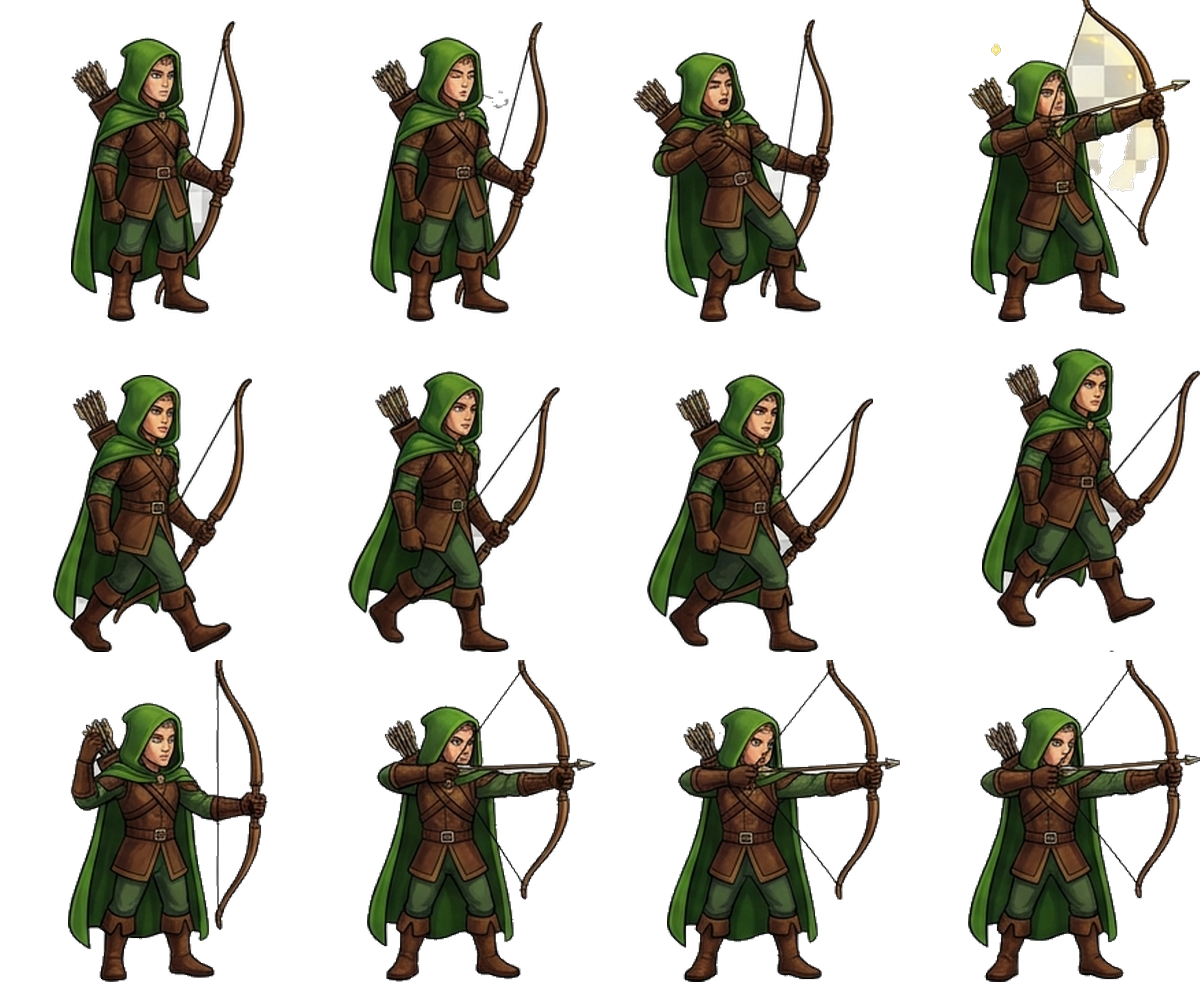
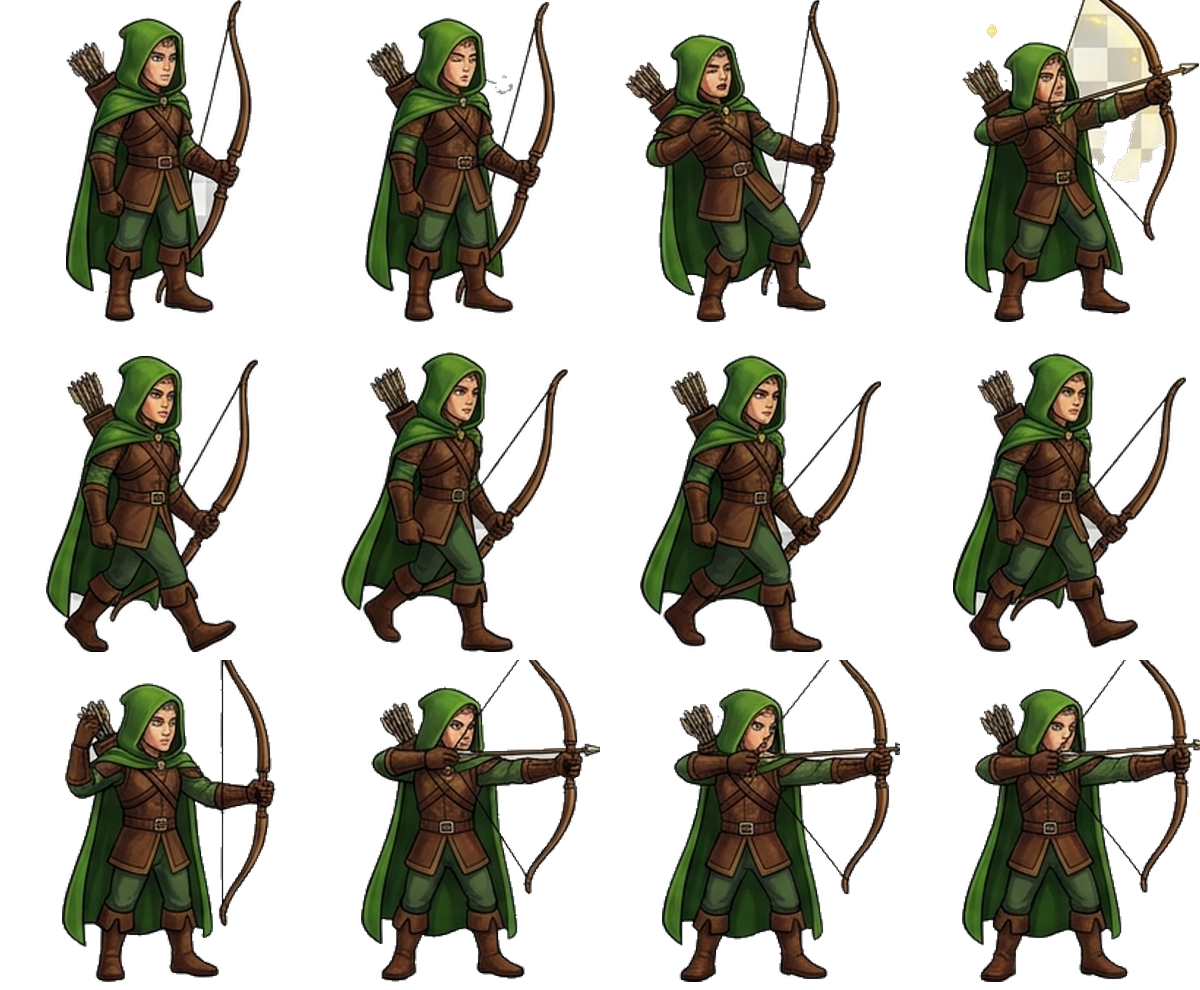
슬라임 왕·대왕 슬라임 동작 시트 연결, 시트 자르기를 그림 덩어리 단위로
- 몬스터 동작 시트: 이동·공격·내려찍기(공격 줄을 천천히)·스킬·맞음 자세, 첫 칸 몸 너비로 크기 맞춤
- prepare_images: 칸 경계를 넘은 자세(높이 뛴 머리·왕관)도 그 자세에 붙임, 몬스터는 모든 자세가 칸 안에 들어가게

Claude-Session: https://claude.ai/code/session_01LK6DUGcPkACYe2DiQDP4gS

diff --git a/index.html b/index.html
@@ -895,7 +895,15 @@ function loadImages() {
 // 그림은 오른쪽을 바라보는 모습 (왼쪽으로 갈 때는 뒤집어 그림). 병사는 unit_<종류>_<단계>, 없는 단계는 낮은 단계 그림을 씀
 const SPRITE_NAMES = [];
 // 동작 시트 (12자세: 1줄 서 있기·숨쉬기·맞음·스킬 / 2줄 걷기 4장 / 3줄 공격 4장). 있으면 한 장 그림 대신 사용
-const ANIM_NAMES = ['hero_knight', 'hero_archer', 'hero_mage'];
+const ANIM_NAMES = ['hero_knight', 'hero_archer', 'hero_mage', 'boss_slime_king', 'boss_giant_slime_king'];   // images/web/ 에 있는 시트만 (새 그림이 오면 추가)
+// 몬스터 종류 → 동작 시트 이름 (시트가 아직 없으면 지금처럼 도형으로 그림). animW = 서 있기 자세의 몸 너비 (몸 반지름의 몇 배)
+const ENEMY_ANIM = {
+  slime: 'enemy_slime', slimeling: 'enemy_slimeling', ironSlime: 'enemy_iron_slime', acidSlime: 'enemy_acid_slime', fireSlime: 'enemy_fire_slime',
+  bombSlime: 'enemy_bomb_slime', poisonSlime: 'enemy_poison_slime', giantSlime: 'enemy_giant_slime', iceSlime: 'enemy_ice_slime', healSlime: 'enemy_heal_slime',
+  slimeKing: 'boss_slime_king', ironSlimeKing: 'boss_iron_slime_king', poisonSlimeQueen: 'boss_poison_slime_queen',
+  spiderQueen: 'boss_spider_queen', wolfKing: 'boss_wolf_king', giantSlimeKing: 'boss_giant_slime_king',
+};
+const ENEMY_ANIM_W = { slimeKing: 3.2, giantSlimeKing: 3.0 };   // 기본 2.6
 // 시트의 몇 번째 칸을 쓸지 (0~11). 마법사 스킬 칸은 효과가 칸을 가득 채워서 서 있는 칸을 대신 씀
 const ANIM_FRAMES = { idle: [0, 1], hurt: 2, cast: 3, walk: [4, 5, 6, 7], attack: [8, 9, 10, 11] };
 const ANIM_OVERRIDE = { hero_mage: { cast: 0 }, hero_archer: { cast: 10 } };   // 궁사 스킬 칸은 빛 효과 주변이 덜 깔끔해서 조준 칸을 씀
@@ -922,18 +930,20 @@ const Sprites = {
     const flash = mk(im.width, im.height), fg = flash.getContext('2d');
     fg.drawImage(im, 0, 0); fg.globalCompositeOperation = 'source-in'; fg.fillStyle = '#ffffff'; fg.fillRect(0, 0, flash.width, flash.height);
     const cw = im.width / ANIM_COLS, ch = im.height / ANIM_ROWS;
-    let head = { x: cw / 2, y: ch * 0.12 };                                                    // 초상화용 머리 위치 (첫 칸)
+    let head = { x: cw / 2, y: ch * 0.12 }, fig = { w: cw * 0.7, h: ch * 0.6 };              // 초상화용 머리 위치 · 서 있기 자세 크기 (첫 칸)
     try {
       const c = mk(Math.round(cw), Math.round(ch)), g = c.getContext('2d'); g.drawImage(im, 0, 0);
-      const d = g.getImageData(0, 0, c.width, c.height).data; let top = -1;
+      const d = g.getImageData(0, 0, c.width, c.height).data; let top = -1, x0 = c.width, x1 = -1;
       for (let y = 0; y < c.height && top < 0; y++) for (let x = 0; x < c.width; x++) if (d[(y * c.width + x) * 4 + 3] > 128) { top = y; break; }
       if (top >= 0) {
         let sx = 0, cnt = 0; const band = Math.round((c.height - top) * 0.2);
         for (let y = top; y < top + band; y++) for (let x = 0; x < c.width; x += 2) if (d[(y * c.width + x) * 4 + 3] > 128) { sx += x; cnt++; }
         head = { x: cnt ? sx / cnt : cw / 2, y: top };
+        for (let y = top; y < c.height; y += 2) for (let x = 0; x < c.width; x++) if (d[(y * c.width + x) * 4 + 3] > 128) { if (x < x0) x0 = x; if (x > x1) x1 = x; }
+        fig = { w: Math.max(10, x1 - x0), h: c.height * (1 - ANIM_FOOT) - top };
       }
     } catch (_) {}
-    this.anims[n] = { img: im, half, flash, cw, ch, head, frames: { ...ANIM_FRAMES, ...(ANIM_OVERRIDE[n] || {}) } };
+    this.anims[n] = { img: im, half, flash, cw, ch, head, fig, frames: { ...ANIM_FRAMES, ...(ANIM_OVERRIDE[n] || {}) } };
   },
   anim(n) { return this.anims[n] || null; },
   prepare(n, im) {
@@ -1004,6 +1014,27 @@ const Art = {
     if (u.flash > 0) { ctx.globalAlpha = Math.min(0.6, u.flash * 6); ctx.drawImage(an.flash, fx, fy, an.cw, an.ch, -W / 2, -H, W, H); }
     ctx.restore();
     return y + H * ANIM_FOOT - H + H * 0.06;                                                       // 머리 위치 (체력바용)
+  },
+  // 몬스터 동작 시트: 스킬(내려찍기는 공격 줄을 천천히) · 공격 · 맞음 · 이동 · 쉬기. 크기는 첫 칸 몸 너비를 몸 반지름에 맞춤
+  enemyAnim(ctx, an, e) {
+    const c = Math.cos(e.face); if (c < -0.25) e.flipX = true; else if (c > 0.25) e.flipX = false;
+    const F = an.frames, r = e.radius;
+    if (e.lunge > 0.1 && !(e._atkT > e.anim - 0.5)) e._atkT = e.anim;                            // 새 공격 시작
+    const at = e._atkT != null ? e.anim - e._atkT : 9; let f;
+    if (e.casting > 0 && e.castSk === 'slam') { const p = 1 - e.casting / (e.castLen || 1); f = F.attack[p < 0.45 ? 0 : p < 0.85 ? 1 : 2]; }
+    else if (e.casting > 0) f = F.cast;
+    else if (at < 0.5) f = F.attack[Math.min(F.attack.length - 1, Math.floor(at / 0.5 * F.attack.length))];
+    else if (e.flash > 0.04) f = F.hurt;
+    else if (e.bossDash || e.anim - (e.movedT ?? -9) < 0.15) f = F.walk[Math.floor(e.anim * 6) % F.walk.length];
+    else f = F.idle[Math.floor(e.anim * 1.5) % F.idle.length];
+    const H = r * (ENEMY_ANIM_W[e.type] || 2.6) / an.fig.w * an.ch, W = H * an.cw / an.ch, foot = e.y + r * 0.35;
+    const fx = (f % ANIM_COLS) * an.cw, fy = Math.floor(f / ANIM_COLS) * an.ch;
+    const small = H * pixelRatio * Camera.zoom < 170, src = small ? an.half : an.img, k = small ? 0.5 : 1;
+    ctx.save(); ctx.translate(e.x, foot + H * ANIM_FOOT); if (e.flipX) ctx.scale(-1, 1);
+    ctx.drawImage(src, fx * k, fy * k, an.cw * k, an.ch * k, -W / 2, -H, W, H);
+    if (e.flash > 0) { ctx.globalAlpha = Math.min(0.6, e.flash * 6); ctx.drawImage(an.flash, fx, fy, an.cw, an.ch, -W / 2, -H, W, H); }
+    ctx.restore();
+    e._top = foot - an.fig.h / an.ch * H;                                                         // 머리 위치 (기절 별·체력바)
   },
   // 걷기(통통 튀기·좌우 흔들림) / 공격(앞으로 숙이기) / 가만히(숨쉬기) / 기절(흔들흔들) / 방향(좌우 뒤집기)
   spriteMotion(u, rt, atkDur = 0.25) {
@@ -1911,7 +1942,9 @@ const Art = {
     if (e.frenzyT > 0) { ctx.strokeStyle = `rgba(255,70,40,${0.55 + Math.sin(e.anim * 12) * 0.3})`; ctx.lineWidth = 2.5; ellipse(ctx, e.x, e.y + 3, e.radius + 7, (e.radius + 7) * 0.55); ctx.stroke(); }   // 광란
     const T = e.type, esc = e.elite ? CONFIG.bossPower.escort.scale : 1;
     if (esc !== 1) { ctx.save(); ctx.translate(e.x, e.y); ctx.scale(esc, esc); ctx.translate(-e.x, -e.y); }   // 정예: 조금 크게
-    if (T === 'spider' || T === 'spiderQueen') this.spider(ctx, e);
+    const ean = ENEMY_ANIM[T] && Sprites.anim(ENEMY_ANIM[T]);
+    if (ean) { ctx.fillStyle = 'rgba(0,0,0,0.25)'; ellipse(ctx, e.x, e.y + e.radius * 0.35, e.radius * 1.35, e.radius * 0.5); ctx.fill(); this.enemyAnim(ctx, ean, e); }   // 동작 시트
+    else if (T === 'spider' || T === 'spiderQueen') this.spider(ctx, e);
     else if (T === 'bat' || T === 'harpy') this.bat(ctx, e);
     else if (T === 'dragon') this.dragon(ctx, e);
     else if (T === 'wolf' || T === 'wolfKing') this.wolf(ctx, e);
@@ -1920,7 +1953,7 @@ const Art = {
     else if (T === 'golem' || T === 'stoneGiant') this.golem(ctx, e);
     else this.humanoid(ctx, e);
     if (esc !== 1) ctx.restore();
-    const top = e.y - (e.air ? AIR_HEIGHT : 0) - e.radius * esc - 14;
+    const top = ean ? e.y + (e._top - e.y) * esc - 8 : e.y - (e.air ? AIR_HEIGHT : 0) - e.radius * esc - 14;
     if (e.stun > 0) this.stunStars(ctx, e.x, top + 2, e.anim);
     else if (e.taunt > 0) { ctx.fillStyle = '#ff4a3a'; circle(ctx, e.x, top - 2, 5.5); ctx.fill(); txt(ctx, '!', e.x, top - 1.5, 9, '#fff', 'center', { weight: 900 }); }
   },
@@ -2192,7 +2225,7 @@ const Art = {
 
   enemyBar(ctx, e) {
     if (e.hp >= e.maxHp || e.boss) return;          // 보스는 화면 위 큰 체력바
-    const w = e.radius * 2.4, y = e.y - (e.air ? AIR_HEIGHT : 0) - e.radius - 10;
+    const w = e.radius * 2.4, y = e._top != null && ENEMY_ANIM[e.type] && Sprites.anim(ENEMY_ANIM[e.type]) ? e._top - 8 : e.y - (e.air ? AIR_HEIGHT : 0) - e.radius - 10;
     bar(ctx, e.x - w / 2, y, w, 5, e.hp / e.maxHp, '#e04a3a');
   },
 
@@ -4293,6 +4326,8 @@ class Enemy {
   }
   update(dt) {
     this.anim += dt;
+    if (this._px !== undefined && Math.abs(this.x - this._px) + Math.abs(this.y - this._py) > 0.02) this.movedT = this.anim;   // 지난 틱에 움직였는지 (동작 시트: 이동 자세)
+    this._px = this.x; this._py = this.y;
     if (this.flash > 0) this.flash -= dt;
     if (this.lunge > 0) this.lunge -= dt;
     if (this.taunt > 0) this.taunt -= dt;
@@ -4468,7 +4503,7 @@ class Enemy {
       if (this.casting <= 0 && !this.bossDash && this.stun <= 0) {
         for (let i = 0; i < c.skills.length; i++) {
           if (this.skillCd[i] > 0) continue;
-          if (this.useSkill(c.skills[i])) { this.skillCd[i] = c.skills[i].cooldown * this.cdMul; break; }
+          if (this.useSkill(c.skills[i])) { this.skillCd[i] = c.skills[i].cooldown * this.cdMul; this.castSk = c.skills[i].id; this.castLen = this.casting; break; }
           this.skillCd[i] = 0.4;                               // 대상이 없으면 잠시 후 다시 확인
         }
       }

diff --git a/tools/prepare_images.py b/tools/prepare_images.py
@@ -8,6 +8,10 @@
    1줄: 서 있기, 숨쉬기, 맞음, 스킬 / 2줄: 걷기 4장 / 3줄: 공격 4장
    칸마다 캐릭터를 잘라서 모든 자세를 같은 비율로 맞추고, 발 위치를 칸 아래 가운데에 맞춰
    images/web/hero_knight_anim.png (같은 크기 칸 4×3) 로 저장
+   - 자세는 칸이 아니라 그림 덩어리 단위로 나눔 (높이 뛴 자세의 머리·왕관이 윗줄 칸으로 넘어가도 그 자세에 붙음)
+   - 영웅·병사: 서 있기·걷기 키를 기준으로 크기를 맞춤 (크게 휘두르는 무기 끝은 칸 밖이면 잘림)
+   - 몬스터(enemy_ · boss_): 슬라임처럼 옆으로 넓거나 길게 늘어나는 자세가 많아서, 모든 자세가 칸 안에 들어가게 줄임
+     (게임이 첫 칸의 몸 너비를 재서 화면 크기를 맞추므로 칸 안에서 작아져도 괜찮음)
 """
 import glob, json, os
 from collections import deque
@@ -97,19 +101,57 @@ def single(path, name):
     im.save(f'{DST}/{name}.png', optimize=True)
     return f'{im.width}x{im.height}'
 
+def split_poses(src):
+    """12자세를 그림 덩어리 단위로 나눔: 덩어리(이어진 그림)의 무게중심이 있는 칸의 자세로 봄.
+    두 자세가 붙어 한 덩어리가 된 경우만 칸 경계로 자름. 반환: [(그 자세만 남긴 시트 크기 그림, 테두리 상자)] × 12"""
+    rgba = np.array(src); al = rgba[:, :, 3]; H, W = al.shape; B = 4
+    hs, ws = H // B, W // B
+    small = al[:hs * B, :ws * B].reshape(hs, B, ws, B).max(axis=(1, 3)) > 40
+    lab = np.zeros((hs, ws), np.int32); comps = []
+    for sy in range(hs):
+        for sx in np.nonzero(small[sy] & (lab[sy] == 0))[0]:
+            if lab[sy, sx]: continue
+            n = len(comps) + 1; q = deque([(sy, sx)]); lab[sy, sx] = n; pts = []
+            while q:
+                y, x = q.popleft(); pts.append((y, x))
+                for ny in (y - 1, y, y + 1):
+                    for nx in (x - 1, x, x + 1):
+                        if 0 <= ny < hs and 0 <= nx < ws and small[ny, nx] and not lab[ny, nx]:
+                            lab[ny, nx] = n; q.append((ny, nx))
+            comps.append(np.array(pts))
+    cw, ch = W / COLS, H / ROWS
+    owner = np.full((hs, ws), -1, np.int16)
+    for pts in comps:
+        ys, xs = pts[:, 0], pts[:, 1]
+        if (np.ptp(xs) + 1) * B > cw * 1.15 or (np.ptp(ys) + 1) * B > ch * 1.4:          # 두 자세가 붙음 → 칸 경계로 나눔
+            owner[ys, xs] = np.minimum(COLS - 1, (xs * B + B / 2) // cw) + COLS * np.minimum(ROWS - 1, (ys * B + B / 2) // ch)
+        else:
+            cx, cy = (xs.mean() + 0.5) * B, (ys.mean() + 0.5) * B
+            owner[ys, xs] = int(min(COLS - 1, cx // cw) + COLS * min(ROWS - 1, cy // ch))
+    out = []
+    for i in range(COLS * ROWS):
+        m = owner == i
+        if not m.any(): out.append((None, None)); continue
+        g = m.copy()
+        for _ in range(2):                                                            # 가장자리의 옅은 빛까지 포함 (다른 자세 부분은 제외)
+            d = g.copy(); d[1:] |= g[:-1]; d[:-1] |= g[1:]; d[:, 1:] |= g[:, :-1]; d[:, :-1] |= g[:, 1:]
+            g = d & ((owner == -1) | m)
+        full = np.zeros((H, W), bool); full[:hs * B, :ws * B] = np.kron(g, np.ones((B, B), bool))
+        a = rgba.copy(); a[:, :, 3] = np.where(full, a[:, :, 3], 0)
+        im = Image.fromarray(a, 'RGBA')
+        out.append((im, alpha_bbox(im)))
+    return out
+
 def sheet(path, name):
     src = remove_fake_background(Image.open(path).convert('RGBA'))
-    cw, ch = src.width / COLS, src.height / ROWS
-    frames = []
-    for r in range(ROWS):
-        for c in range(COLS):
-            cell = src.crop((round(c * cw), round(r * ch), round((c + 1) * cw), round((r + 1) * ch)))
-            bb = alpha_bbox(cell)
-            frames.append((cell, bb))
+    frames = split_poses(src)
     # 비율 기준: 서 있기 2장 + 걷기 4장의 키 중간값 → 모든 자세에 같은 비율 적용 (웅크린 자세는 작게 유지)
     hs = sorted(bb[3] - bb[1] for i, (cell, bb) in enumerate(frames) if bb and (i < 2 or 4 <= i < 8))
-    ref = hs[len(hs) // 2] if hs else ch
+    ref = hs[len(hs) // 2] if hs else src.height / ROWS
     scale = FIG_H / ref
+    if name.startswith(('enemy_', 'boss_')):                                         # 몬스터: 모든 자세가 칸 안에 들어가게
+        bbs = [bb for cell, bb in frames if bb]
+        scale = min(scale, (CELL_W - 8) / max(bb[2] - bb[0] for bb in bbs), (CELL_H - 14) / max(bb[3] - bb[1] for bb in bbs))
     out = Image.new('RGBA', (CELL_W * COLS, CELL_H * ROWS), (0, 0, 0, 0))
     for i, (cell, bb) in enumerate(frames):
         if not bb: continue
@@ -125,7 +167,7 @@ def sheet(path, name):
         part.alpha_composite(fig, (ox - cx0, oy - cy0)) if 0 <= ox - cx0 and 0 <= oy - cy0 and ox - cx0 + w <= CELL_W else part.paste(fig, (ox - cx0, oy - cy0), fig)
         out.alpha_composite(part, (cx0, cy0))
     out.save(f'{DST}/{name}_anim.png', optimize=True)
-    return f'{COLS}x{ROWS} 칸, 기준 키 {ref}px'
+    return f'{COLS}x{ROWS} 칸, 기준 키 {ref}px, 배율 {scale:.2f}'
 
 for old in glob.glob(f'{DST}/*.png'):          # 예전에 만든 게임용 그림은 지우고 새로 만듦 (원본을 지우면 게임용도 사라지게)
     os.remove(old)

diff --git a/README.md b/README.md
@@ -127,6 +127,7 @@
 - [x] 피드백 반영 3: 성직자 · 병사 10레벨·패시브 · 영웅 15레벨·궁극기 · 적 기지 체력과 시간 경과 강화 하향
 - [x] 피드백 반영 2: 궁수·마법사 사거리 강화 · 근처 적 교전 수정 · 성문 업그레이드 제거 · 인구 50 → 25 · 5레벨 자동 스킬 · 아이템 유지 · 난이도별 진행(어려움 해금) · 난이도 상향 · 스테이지 10개 · 새 몬스터 8종·보스 4종·묘지 기지
 - [x] 그래픽: 영웅 3명 동작 시트(서기·걷기·공격·피격·시전) 연결 · 진행 초기화 버튼
+- [x] 그래픽: 1막 그림 프롬프트 개편(캐릭터 전부 동작 시트) · 슬라임 왕·대왕 슬라임 동작 시트 연결(이동·공격·내려찍기·스킬·맞음) · 시트 자르기를 그림 덩어리 단위로
 - [x] 1막 개편 1단계: 웨이브 방식 · 새 지도 11개(A·B형) · 성문 2개(체력 공유) · 성문 업그레이드 5레벨(투석기·마법 타워) · 성문별 생산·집결 지점 · 골드 차등 · 쉬움 삭제
 - [x] 1막 개편 2단계: 길목 성벽(각 막 4스테이지부터) · 새 슬라임 5종 · 슬라임 중간보스 2종 · 스테이지별 분대 구성
 - [x] 1막 개편 3단계: 아이템 5등급 · 무기/갑옷/장신구 3종 · 세트 효과 · 궁극기 10레벨 · 기사 강화(원거리 피해 감소·병사 방어 오라·함성 끌어당기기·흡혈·공격력)

diff --git a/images/README.md b/images/README.md
@@ -2,6 +2,9 @@
 
 AI로 만든 그림을 이 폴더에 올립니다.
 
-- 파일 이름은 프롬프트 모음(`art/prompts.html`)에 적힌 이름 그대로 (예: `hero_knight.png`)
-- 배경이 투명한 PNG, 1024×1024 권장
+- 파일 이름은 프롬프트 모음(`art/prompts.html`)에 적힌 이름 그대로 (예: `enemy_slime_sheet.png`)
+- 배경이 투명한 PNG. 동작 시트(4칸×3줄, 12자세)는 1536×1024, 한 장 그림은 1024×1024 권장
+- 올린 뒤 `python3 tools/prepare_images.py` 를 실행하면 `images/web/` 에 게임용 그림이 생깁니다
+  - 자세는 그림 덩어리 단위로 잘라서, 높이 뛴 자세가 칸 경계를 넘어도 괜찮습니다
+  - 게임에 연결: `index.html` 의 `ANIM_NAMES` 에 이름 추가 (몬스터 종류와의 연결은 `ENEMY_ANIM`)
 - 일부만 올려도 괜찮습니다. 올린 그림부터 게임에 연결합니다.
